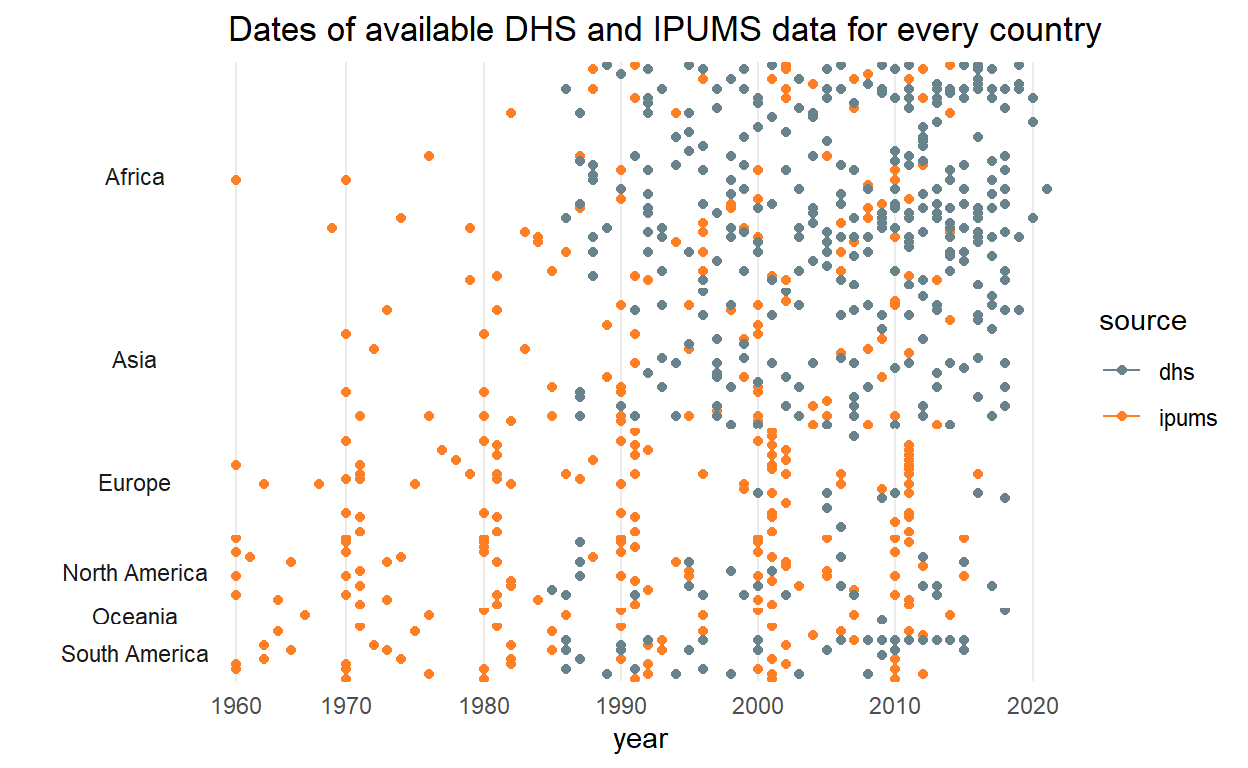
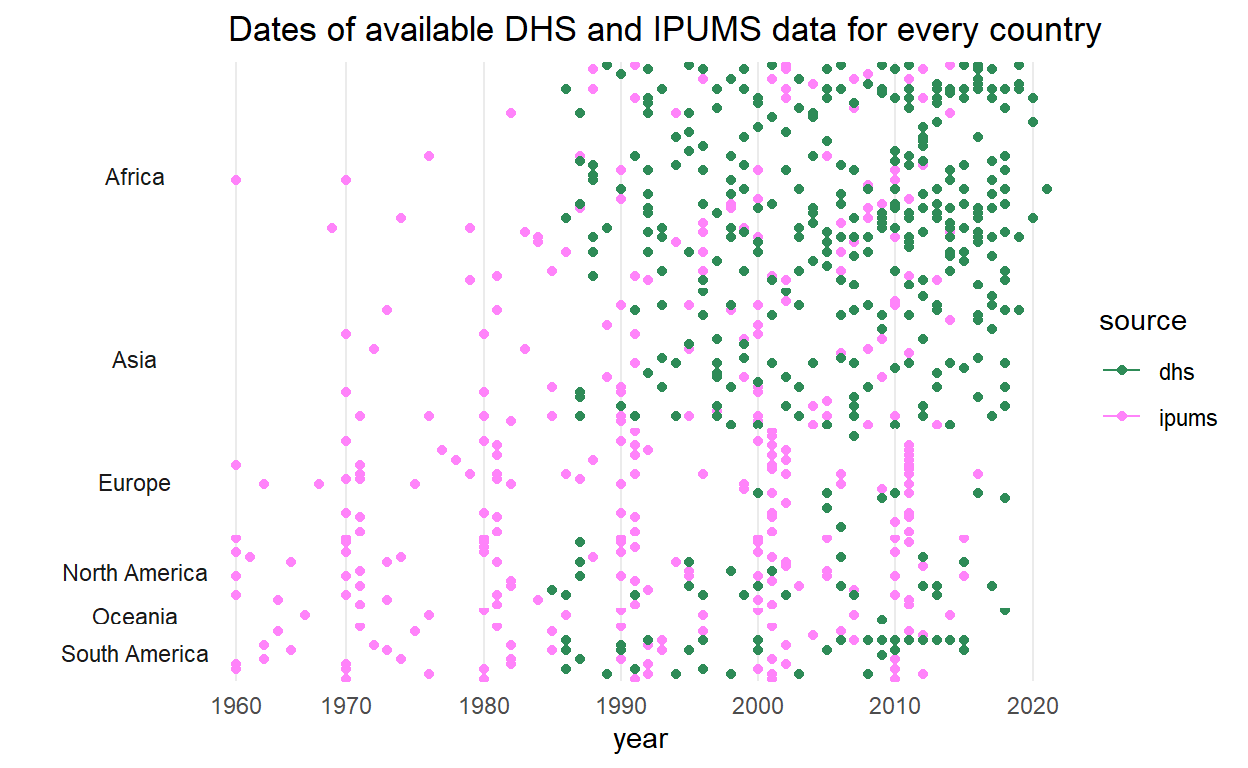
change color of pop microdata graph

diff --git a/_posts/2021-10-21-which-population-microdata-can-we-openly-access/which-population-microdata-can-we-openly-access.html b/_posts/2021-10-21-which-population-microdata-can-we-openly-access/which-population-microdata-can-we-openly-access.html
@@ -1563,7 +1563,7 @@ hide
         strip.placement <span class='op'>=</span> <span class='st'>"outside"</span>,
         strip.text.y.left <span class='op'>=</span> <span class='fu'><a href='https://ggplot2.tidyverse.org/reference/element.html'>element_text</a></span><span class='op'>(</span>angle <span class='op'>=</span> <span class='fl'>0</span><span class='op'>)</span><span class='op'>)</span><span class='op'>+</span>
   <span class='fu'><a href='https://ggplot2.tidyverse.org/reference/labs.html'>labs</a></span><span class='op'>(</span>title<span class='op'>=</span> <span class='st'>'Dates of available DHS and IPUMS data for every country'</span><span class='op'>)</span><span class='op'>+</span>
-  <span class='fu'><a href='https://ggplot2.tidyverse.org/reference/scale_manual.html'>scale_colour_manual</a></span><span class='op'>(</span>values<span class='op'>=</span><span class='fu'><a href='https://rdrr.io/r/base/c.html'>c</a></span><span class='op'>(</span> <span class='st'>"lightblue4"</span>, <span class='st'>"chocolate1"</span><span class='op'>)</span><span class='op'>)</span>
+  <span class='fu'><a href='https://ggplot2.tidyverse.org/reference/scale_manual.html'>scale_colour_manual</a></span><span class='op'>(</span>values<span class='op'>=</span><span class='fu'><a href='https://rdrr.io/r/base/c.html'>c</a></span><span class='op'>(</span> <span class='st'>"seagreen4"</span>, <span class='st'>"orchid1"</span><span class='op'>)</span><span class='op'>)</span>
 </code></pre>
 </div>
 </details>

diff --git a/docs/posts/2021-10-21-which-population-microdata-can-we-openly-access/index.html b/docs/posts/2021-10-21-which-population-microdata-can-we-openly-access/index.html
@@ -2262,7 +2262,7 @@ hide
         strip.placement <span class='op'>=</span> <span class='st'>"outside"</span>,
         strip.text.y.left <span class='op'>=</span> <span class='fu'><a href='https://ggplot2.tidyverse.org/reference/element.html'>element_text</a></span><span class='op'>(</span>angle <span class='op'>=</span> <span class='fl'>0</span><span class='op'>)</span><span class='op'>)</span><span class='op'>+</span>
   <span class='fu'><a href='https://ggplot2.tidyverse.org/reference/labs.html'>labs</a></span><span class='op'>(</span>title<span class='op'>=</span> <span class='st'>'Dates of available DHS and IPUMS data for every country'</span><span class='op'>)</span><span class='op'>+</span>
-  <span class='fu'><a href='https://ggplot2.tidyverse.org/reference/scale_manual.html'>scale_colour_manual</a></span><span class='op'>(</span>values<span class='op'>=</span><span class='fu'><a href='https://rdrr.io/r/base/c.html'>c</a></span><span class='op'>(</span> <span class='st'>"lightblue4"</span>, <span class='st'>"chocolate1"</span><span class='op'>)</span><span class='op'>)</span>
+  <span class='fu'><a href='https://ggplot2.tidyverse.org/reference/scale_manual.html'>scale_colour_manual</a></span><span class='op'>(</span>values<span class='op'>=</span><span class='fu'><a href='https://rdrr.io/r/base/c.html'>c</a></span><span class='op'>(</span> <span class='st'>"seagreen4"</span>, <span class='st'>"orchid1"</span><span class='op'>)</span><span class='op'>)</span>
 </code></pre>
 </div>
 </details>
